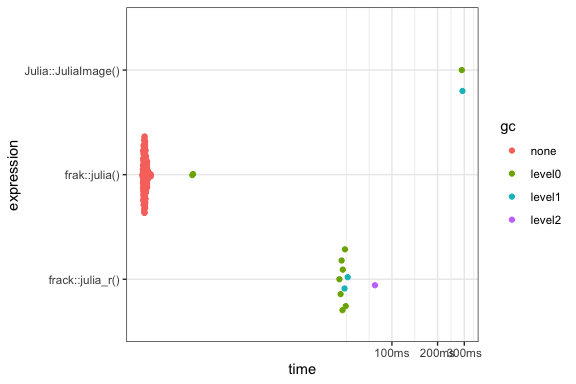
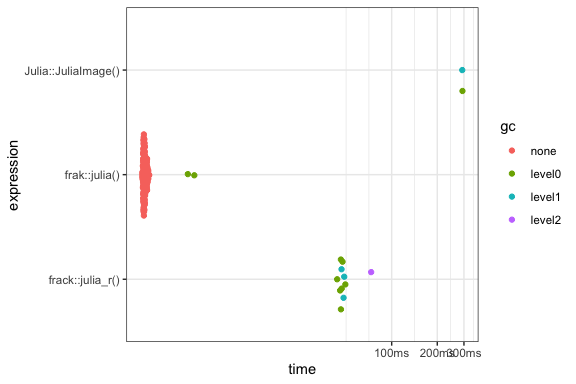
tighten docs

diff --git a/README.md b/README.md
@@ -10,7 +10,7 @@
 [![R-CMD-check](https://github.com/coolbutuseless/frak/actions/workflows/R-CMD-check.yaml/badge.svg)](https://github.com/coolbutuseless/frak/actions/workflows/R-CMD-check.yaml)
 <!-- badges: end -->
 
-`frak` is a small R package to generate fractals - currently just [Julia
+`frak` is an R package which generates fractals - currently just [Julia
 Sets](https://en.wikipedia.org/wiki/Julia_set).
 
 I needed a fast way to generate test images for testing other software,
@@ -35,14 +35,7 @@ remotes::install_github('coolbutuseless/frak')
 
 ## What’s in the box?
 
-- `julia(cx, cy, movex, movey, zoom, size, max_iter)` generate a julia
-  set, where `cx` and `cy` are the components of imaginary iteration
-  variable *c*.
-
-Returned array of raw values represents the iteration count at which a
-particular location veered towards infinity. These values are scaled to
-span the full range from allowable within a raw vector (i.e. the whole
-numbers from 0 to 255)
+- `julia()` generate a julia set.
 
 ## Example: Generate a julia set
 
@@ -166,9 +159,9 @@ res <- bench::mark(
 
 | expression          |      min |   median |    itr/sec |
 |:--------------------|---------:|---------:|-----------:|
-| Julia::JuliaImage() | 288.88ms | 290.35ms |   3.444074 |
-| frak::julia()       |   2.26ms |   2.35ms | 420.138483 |
-| frack::julia_r()    |  45.08ms |  48.06ms |  19.690096 |
+| Julia::JuliaImage() | 292.34ms | 292.83ms |   3.414975 |
+| frak::julia()       |   2.26ms |   2.33ms | 422.441739 |
+| frack::julia_r()    |  43.64ms |  46.78ms |  20.304937 |
 
 <img src="man/figures/README-unnamed-chunk-6-1.png" width="100%" />
 
